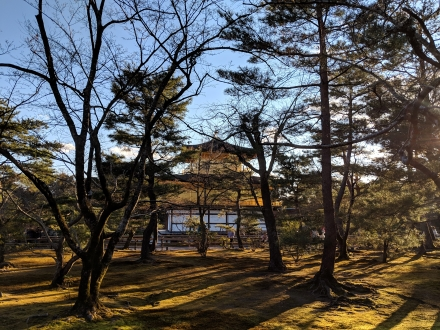
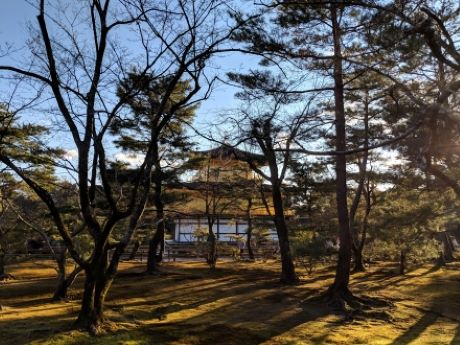
resize images

diff --git a/pages/photography.md b/pages/photography.md
@@ -22,6 +22,8 @@ I enjoy taking photos. Here are some of my favorites from my travels.
 	<td style="text-align: right;">Palm Springs, CA</td>
 </tr>
 
+<tr></tr>
+
 <tr>
     <td> <img src="https://raw.githubusercontent.com/yontartu/yontartu.github.io/master/images/takayama.jpg" alt="takayama"/> </td>
     <td> <img src="https://raw.githubusercontent.com/yontartu/yontartu.github.io/master/images/goldpavilion.jpg" alt="goldpavilion"/> </td>
